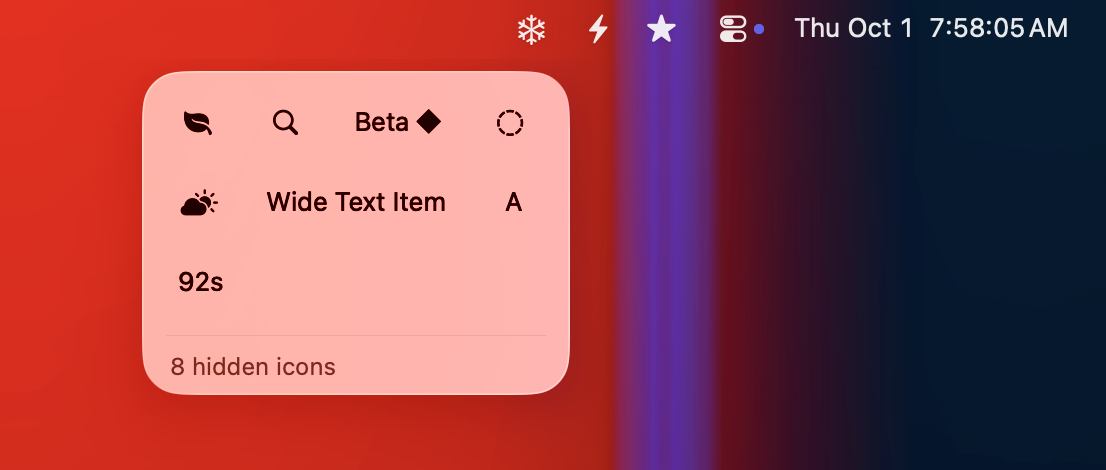
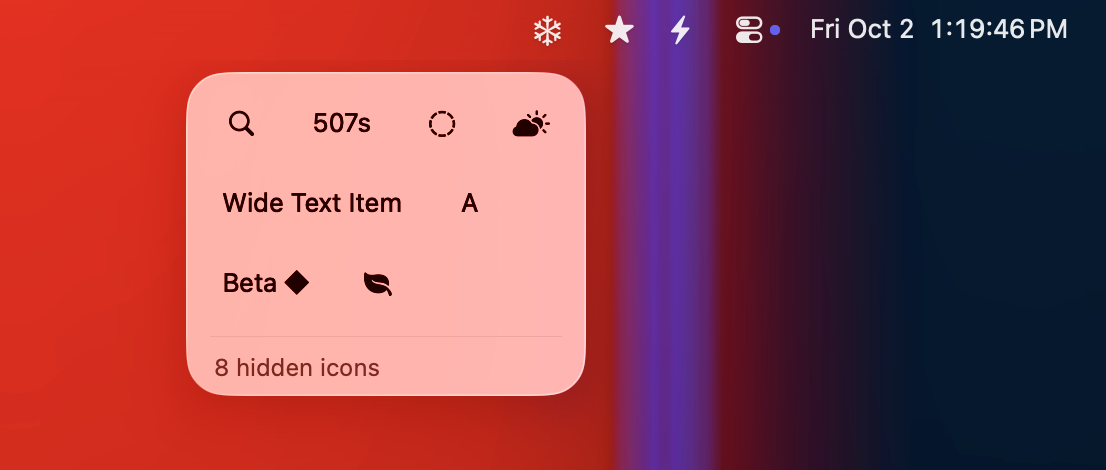
docs: refresh the README and its screenshots
- Retake the layout editor and Frost Bar screenshots in the VM (taller Settings
  window, current Frost Bar grid); losslessly optimize all README images.
- Features: Keep icons in their sections, live Frost Bar refresh, quick menu
  opening, display modes per display, multiple displays, gentle update reminders.
- Updates: the snowflake dot and Update Available… menu item, Check Now.
- Permissions: Settings → About shows status and reopens onboarding.
- Build from source: add make install and make ci-build.

Changed region(s): [[0.123, 0.1489, 0.5533, 0.8638], [0.4611, 0.0298, 0.953, 0.0894], [0.3074, 0.566, 0.3689, 0.6255]]

diff --git a/README.md b/README.md
@@ -26,22 +26,24 @@ in the **Frost Bar**, a glass panel that drops down below the menu bar. It works
 
 - **Three sections**: Visible, Hidden and Always Hidden. Click the snowflake to show the hidden items; ⌥-click to
   show the always-hidden ones too. Items can hide again automatically after a delay.
-- **Frost Bar**: hidden items in a grid below the menu bar. Hover for the app name, click to open the item's menu.
-  Item images refresh every second while the panel is open, so temperature or network-speed items stay current.
-  Used by default on Macs with a notch; choose **Automatic**, **In Menu Bar** or **Frost Bar** in
-  **Settings → Behavior**.
-- **Layout editor**: live images of every menu bar item in three bands. Drag items between sections and Frost moves
-  them in the real menu bar.
-- **Icons stay where you put them**: new apps' icons land in Hidden, and when an app relaunches and macOS re-adds its
-  icon in another section, Frost moves it back (can be turned off in **Settings → Behavior**).
-- Permission onboarding, launch at login, multiple displays, automatic updates.
-- Available in English and Simplified Chinese (follows your macOS language).
+- **Frost Bar**: hidden items in a grid below the menu bar. Hover for the app name; click an item and its menu opens
+  as soon as the item is in place. Item images refresh live (every second) while the panel is open, so clocks,
+  temperature or network-speed items stay current.
+- **Show hidden icons** (**Settings → Behavior**): **Automatic** (the Frost Bar on displays with a notch, in the menu
+  bar elsewhere), **In Menu Bar** or **Frost Bar**.
+- **Layout editor** (**Settings → Layout**): live images of every menu bar item in three bands. Drag items between
+  sections and Frost moves them in the real menu bar.
+- **Keep icons in their sections**: new apps' icons land in Hidden, and when an app relaunches and macOS re-adds its
+  icon in another section, Frost moves it back (a toggle in **Settings → Behavior**).
+- **Multiple displays**: the snowflake works on every display's menu bar.
+- **Automatic updates** with gentle reminders: no pop-ups over your work, just a dot on the snowflake.
+- Permission onboarding, launch at login, English and Simplified Chinese (follows your macOS language).
 
 Hiding and showing items needs **no permissions**. Only the Frost Bar and the layout editor do.
 
 ## Screenshots
 
-| Layout editor | Behavior settings |
+| Settings → Layout | Settings → Behavior |
 | --- | --- |
 | <img src="docs/images/layout-editor.png" width="420" alt="Layout editor"> | <img src="docs/images/behavior.png" width="420" alt="Behavior settings"> |
 
@@ -71,14 +73,16 @@ disk image) runs from a temporary read-only location and can't update itself unt
 | Accessibility | Identifying which app owns each item; moving items between sections (synthesized ⌘-drags); clicking items in the Frost Bar | The Frost Bar and layout editor ask for the missing permission; hiding and showing still work |
 | Screen Recording | Capturing images of menu bar items for the Frost Bar and the layout editor | Same as above |
 
-Onboarding opens on first launch and can be reopened from **Settings → About**. Frost must be relaunched after
-granting Screen Recording; onboarding has a button for it.
+Onboarding opens on first launch; **Settings → About** shows each permission's status, and **Grant Access** reopens
+onboarding. Frost must be relaunched after granting Screen Recording; onboarding has a button for it.
 
 ## Updates
 
-Frost checks for updates once a day with [Sparkle](https://sparkle-project.org) and asks before installing anything.
-Check manually with **Check for Updates…** in the snowflake's right-click menu, or turn off **Automatically check for
-updates** under **Settings → Behavior**. Updates are verified with an EdDSA signature before they are installed.
+Frost checks for updates once a day with [Sparkle](https://sparkle-project.org). When a scheduled check finds a new
+version, a dot appears on the snowflake and its right-click menu shows **Update Available…**; nothing is installed
+without asking. Check manually with **Check for Updates…** in that menu or **Check Now** in **Settings → Behavior**,
+where you can also turn off **Automatically check for updates**. Updates are verified with an EdDSA signature before
+they are installed.
 
 ## Privacy
 
@@ -96,6 +100,8 @@ Requirements: Xcode 27 (Swift 6.4), [XcodeGen](https://github.com/yonaskolb/Xcod
 ./scripts/create-signing-cert.sh   # once: creates the self-signed "Frost Local Signing" identity
 make build                         # Debug build: build/DerivedData/Build/Products/Debug/Frost.app
 make test-core                     # unit tests (Swift Testing)
+make install                       # signed Release build, installed to /Applications and launched
+make ci-build                      # unsigned universal Release build, as run by CI
 ```
 
 A stable signing identity keeps macOS from asking for permissions again after every rebuild. If `codesign` reports
